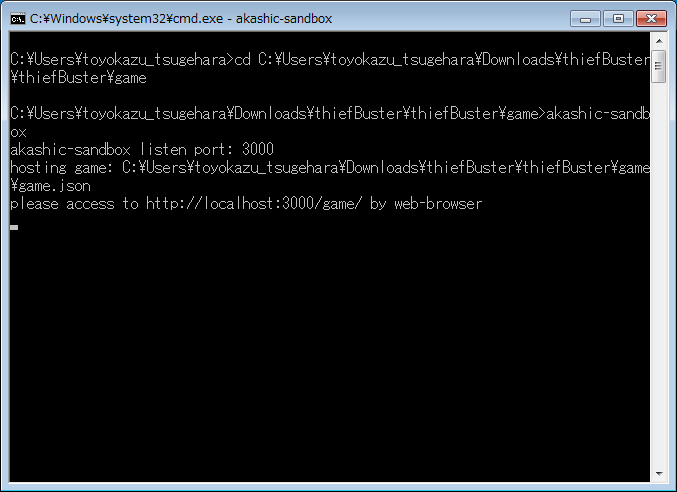
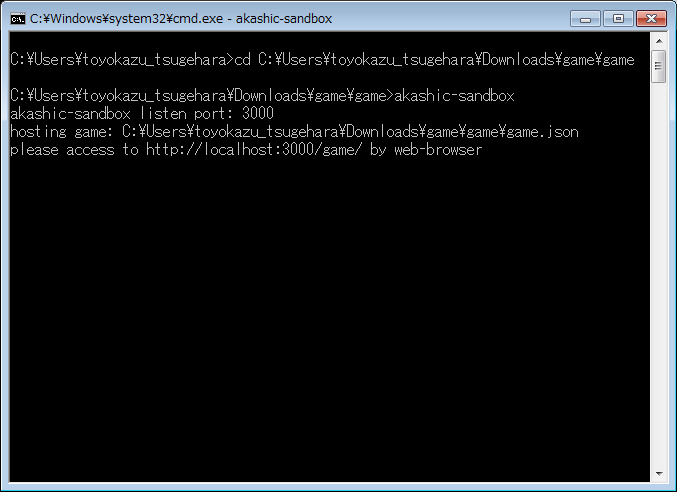
Update 2018-11-13:14:46:1542088007

diff --git a/niconico/jikken-housou/akashic-content1/index.html b/niconico/jikken-housou/akashic-content1/index.html
@@ -280,14 +280,19 @@
 <li><a href="https://github.com/akashic-contents/thiefBuster">https://github.com/akashic-contents/thiefBuster</a></li>
 </ul>
 
-<p>画面右の方に<code>Clone or download▼</code>というリンクがあるので、これを選択すると出てくる<code>Download ZIP</code>を選択してください。</p>
+<p>今回は完全なソースコードは不要なので、ゲームのバイナリだけダウンロードしたいと思います。画面右の方に<code>release</code>というリンクがあるので、こちらを選択してください。</p>
 
-<img src="https://dwango.github.io/images/akashic-content1/github-capture.png" alt="github.comのClone or download"  />
+<img src="https://dwango.github.io/images/akashic-content1/github-releases.png" alt="GitHubのrelease"  />
 
 
-<p><code>thiefBuster.zip</code>というファイルをダウンロードできたと思います。</p>
+<p><code>release</code>のページに移ったら、次に最新のリリースに含まれる<code>game.zip</code>というファイルを選択してください。</p>
 
-<p>ZIPファイルの解凍方法がわかる方は、解凍してください。Windowsユーザの方は、エクスプローラ等からファイルを右クリックし、そこで出てくる<code>すべて展開</code>というメニューで解凍できます。</p>
+<img src="https://dwango.github.io/images/akashic-content1/download-gamezip.png" alt="game.zipのダウンロード"  />
+
+
+<p>この手順の通りにやると最新版の<code>game.zip</code>をダウンロードできますが、本記事時点の最新版でよければ<a href="https://github.com/akashic-contents/thiefBuster/releases/download/v0.0.0/game.zip">こちらのリンク</a>からダウンロードすることもできます。</p>
+
+<p>ZIPファイルの解凍方法がわかる方は、ダウンロードしたファイルを解凍してください。Windowsユーザの方は、エクスプローラ等からファイルを右クリックし、そこで出てくる<code>すべて展開</code>というメニューで解凍できます。</p>
 
 <img src="https://dwango.github.io/images/akashic-content1/thiefBuster-extract.png" alt="泥棒バスターの解凍"  />
 
@@ -301,10 +306,10 @@
 
 <p>先ほどのCUIツールを起動して、以下のようなコマンドを実行してください。</p>
 
-<pre><code class="language-sh">cd C:\Users\toyokazu_tsugehara\Downloads\thiefBuster\thiefBuster\game
+<pre><code class="language-sh">cd C:\Users\toyokazu_tsugehara\Downloads\game\game
 </code></pre>
 
-<p>cdの後は環境によって違います。「ダウンロードした場所\thiefBuseter\thiefBuster\game」という感じのものです。</p>
+<p>cdの後は環境によって違います。「ダウンロードした場所\game\game」という感じのものです。</p>
 
 <p>本文章上は場所の区切りを示す記号が<code>\</code>（バックスラッシュ）に見えていますが、多くの環境では<code>￥</code>（円記号）のような表示になっていると思います。これは日本語キーボードでは<code>￥</code>の場所のキー、英語キーボードでは<code>\</code>の場所のキーを入力すると、環境に応じて表示が変わる文字として扱われるもので、どちらも正常です。以後、<code>￥</code>に見える環境では<code>\</code>を<code>￥</code>に読み替えてください。</p>
 
